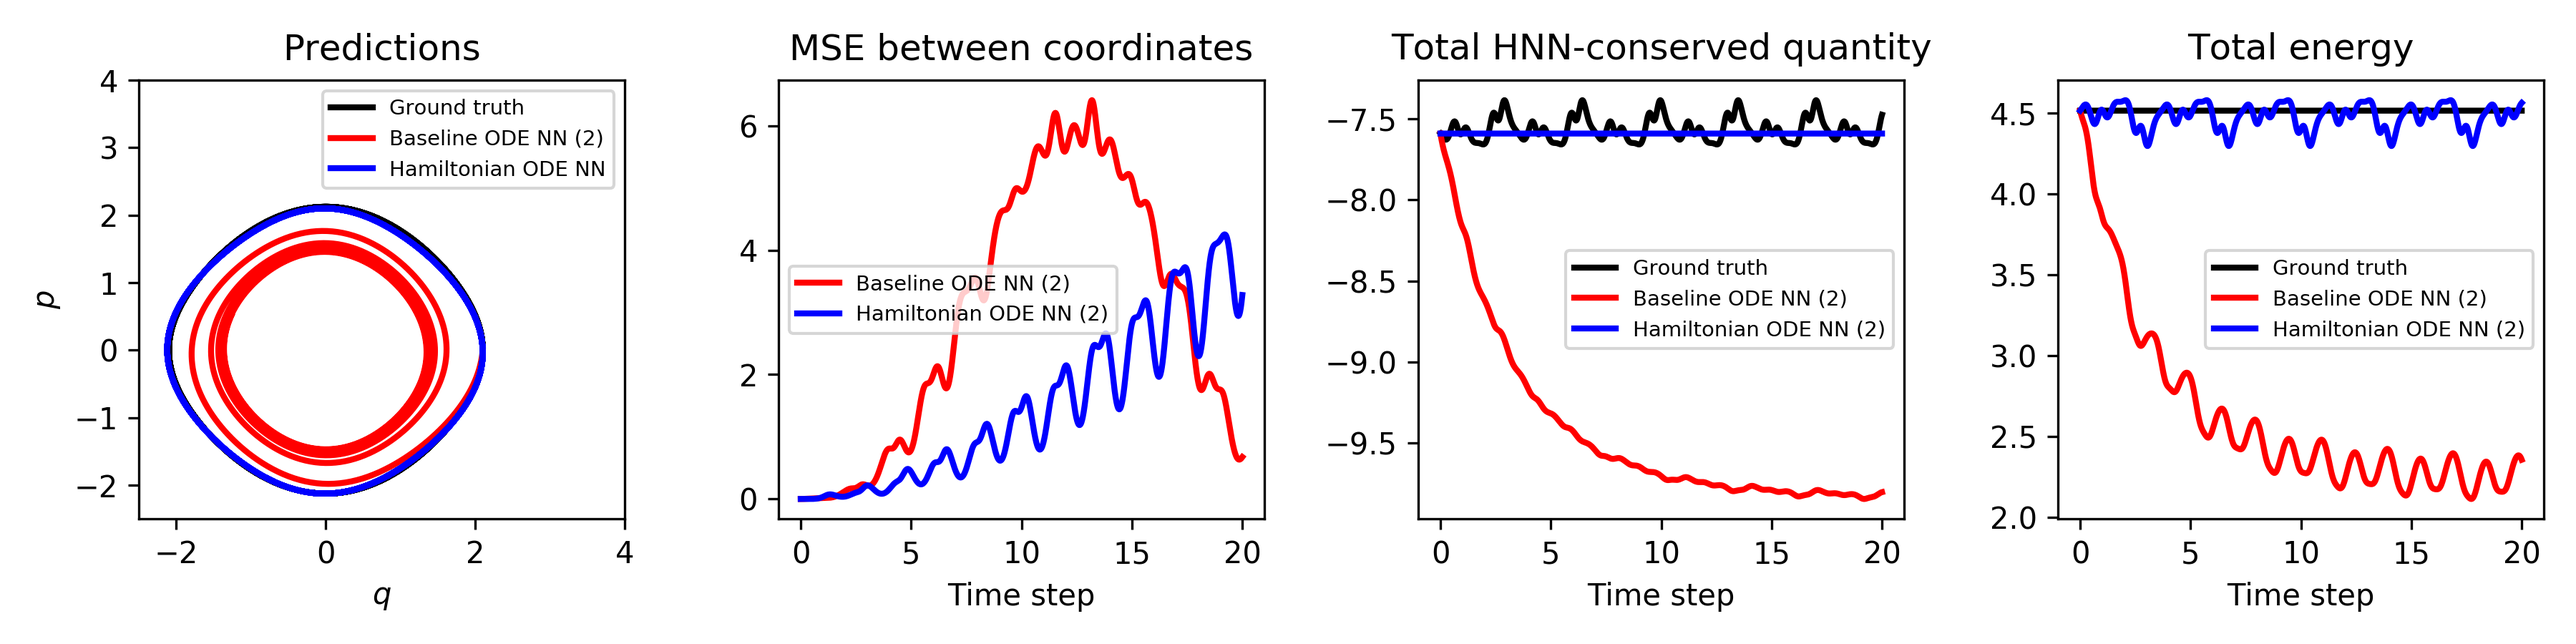
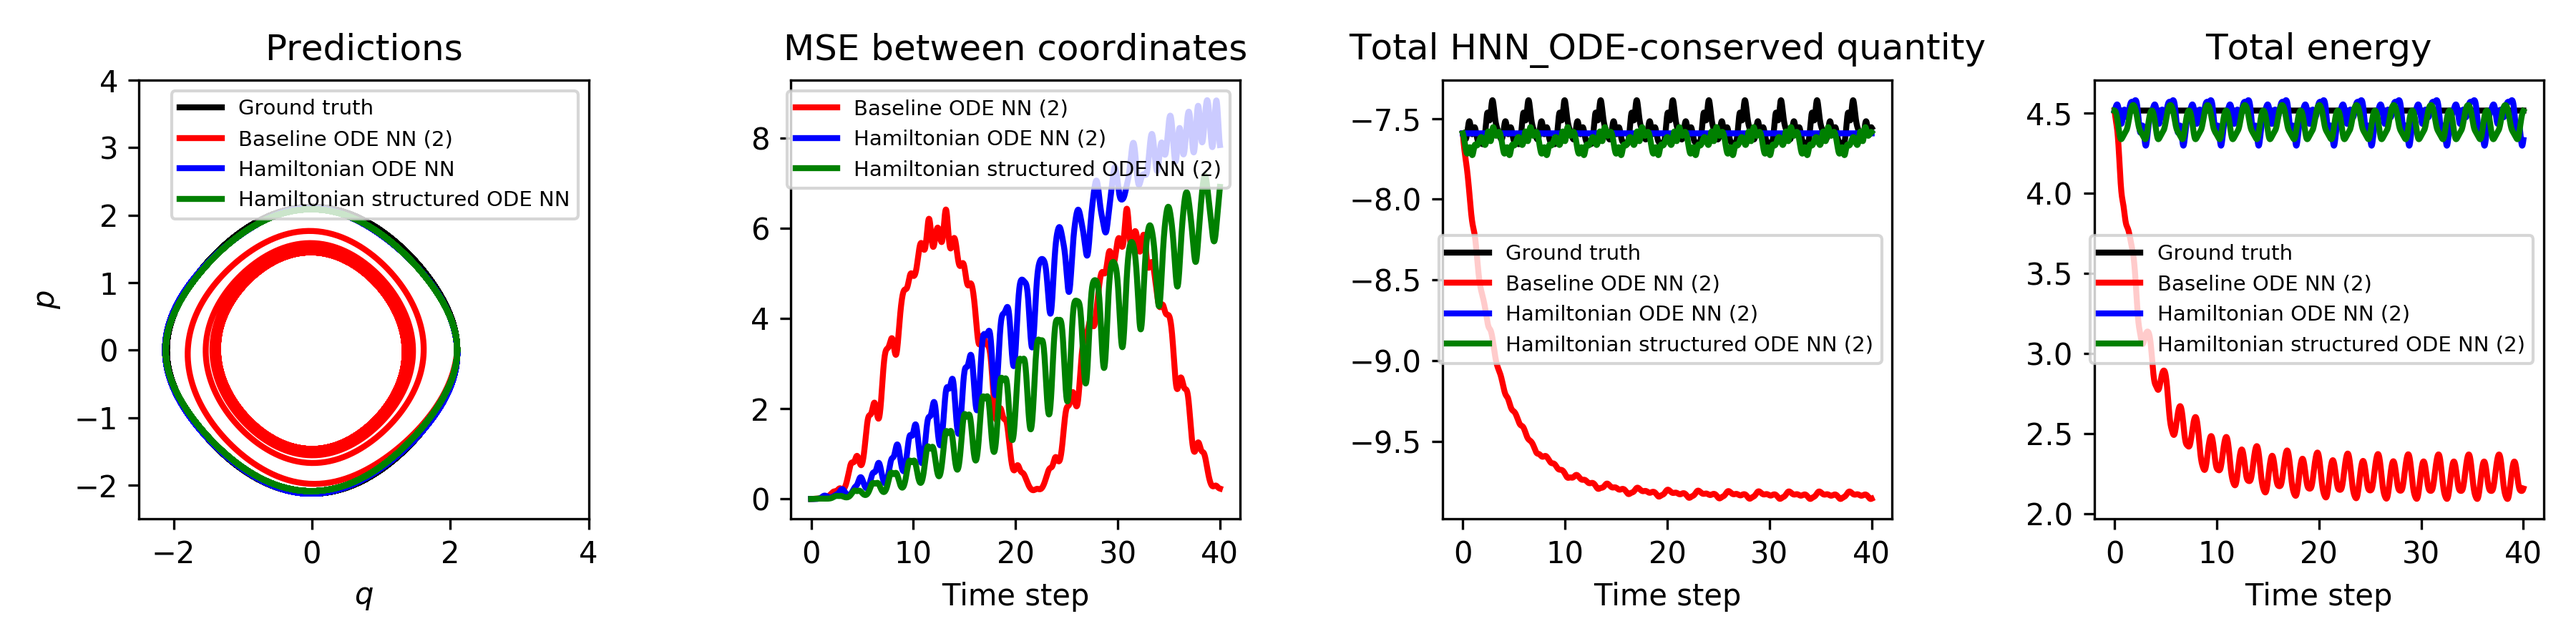
adding mass structure to the model

diff --git a/analyze-pend.py b/analyze-pend.py
@@ -12,7 +12,7 @@ sys.path.append(EXPERIMENT_DIR)
 
 from data import get_dataset, get_field, get_trajectory, dynamics_fn, hamiltonian_fn, arrange_data
 from nn_models import MLP
-from hnn import HNN
+from hnn import HNN, HNN_structure
 from utils import L2_loss, from_pickle
 
 # #%%
@@ -89,14 +89,20 @@ plt.tight_layout() ; plt.show()
 
 #%%
 device = torch.device('cuda:' + str(args.gpu) if torch.cuda.is_available() else 'cpu')
-def get_model(args, baseline, num_points):
-    output_dim = args.input_dim if baseline else 1
-    nn_model = MLP(args.input_dim, args.hidden_dim, output_dim, args.nonlinearity).to(device)
-    model = HNN(args.input_dim, differentiale_model=nn_model, 
-        device=device, baseline=baseline).to(device)
+def get_model(args, baseline, structure, num_points):
+    if structure == False:
+        output_dim = args.input_dim if baseline else 1
+        nn_model = MLP(args.input_dim, args.hidden_dim, output_dim, args.nonlinearity).to(device)
+        model = HNN(args.input_dim, differentiale_model=nn_model, 
+                device=device, baseline=baseline).to(device)
+    else:
+        L_net = MLP(input_dim=1, hidden_dim=141, output_dim=1, nonlinearity=args.nonlinearity).to(device)
+        V_net = MLP(input_dim=1, hidden_dim=141, output_dim=1, nonlinearity=args.nonlinearity).to(device)
+        model = HNN_structure(args.input_dim, L_net, V_net, device=device)
     
     model_name = 'baseline_ode' if baseline else 'hnn_ode'
-    path = '{}pend-{}-p{}.tar'.format(args.save_dir, model_name, num_points)
+    struct = '-struct' if structure else ''
+    path = '{}pend-{}{}-p{}.tar'.format(args.save_dir, model_name, struct, num_points)
     model.load_state_dict(torch.load(path, map_location=device))
     return model
 
@@ -132,8 +138,9 @@ def integrate_model(model, t_span, y0, **kwargs):
 # ## Run analysis
 
 #%%
-base_ode_model = get_model(args, baseline=True, num_points=args.num_points)
-hnn_ode_model = get_model(args, baseline=False, num_points=args.num_points)
+base_ode_model = get_model(args, baseline=True, structure=False, num_points=args.num_points)
+hnn_ode_model = get_model(args, baseline=False, structure=False, num_points=args.num_points)
+hnn_ode_struct_model = get_model(args, baseline=False, structure=True, num_points=args.num_points)
 
 # get their vector fields
 R = 2.6
@@ -141,6 +148,7 @@ field = get_field(xmin=-R, xmax=R, ymin=-R, ymax=R, gridsize=args.gridsize)
 # data = get_dataset(radius=2.0)
 base_field = get_vector_field(base_ode_model, xmin=-R, xmax=R, ymin=-R, ymax=R, gridsize=args.gridsize)
 hnn_field = get_vector_field(hnn_ode_model, xmin=-R, xmax=R, ymin=-R, ymax=R, gridsize=args.gridsize)
+hnn_struct_field = get_vector_field(hnn_ode_struct_model, xmin=-R, xmax=R, ymin=-R, ymax=R, gridsize=args.gridsize)
 
 # integrate along those fields starting from point (1,0)
 t_span = [0,28]
@@ -155,20 +163,21 @@ y0 = np.asarray([2.1, 0])
 kwargs = {'t_eval': np.linspace(t_span[0], t_span[1], 1000), 'rtol': 1e-12}
 base_ivp = integrate_model(base_ode_model, t_span, y0, **kwargs)
 hnn_ivp = integrate_model(hnn_ode_model, t_span, y0, **kwargs)
+hnn_struct_ivp = integrate_model(hnn_ode_struct_model, t_span, y0, **kwargs)
 
 
 #%%
 ###### PLOT ######
-fig = plt.figure(figsize=(11.3, 3.2), facecolor='white', dpi=DPI)
+fig = plt.figure(figsize=(16, 3.2), facecolor='white', dpi=DPI)
 # plot physical system
-fig.add_subplot(1, 4, 1, frameon=True) 
+fig.add_subplot(1, 5, 1, frameon=True) 
 plt.xticks([]) ;  plt.yticks([])
 schema = mpimg.imread(EXPERIMENT_DIR + '/pendulum.png')
 plt.imshow(schema)
 plt.title("Pendulum system", pad=10)
 
 # plot dynamics
-fig.add_subplot(1, 4, 2, frameon=True)
+fig.add_subplot(1, 5, 2, frameon=True)
 x, y, dx, dy, t = get_trajectory(t_span=[0,4], radius=2.1, y0=y0)
 N = len(x)
 point_colors = [(i/N, 0, 1-i/N) for i in range(N)]
@@ -181,7 +190,7 @@ plt.ylabel("$p$", rotation=0, fontsize=14)
 plt.title("Data", pad=10)
 
 # plot baseline
-fig.add_subplot(1, 4, 3, frameon=True)
+fig.add_subplot(1, 5, 3, frameon=True)
 plt.quiver(field['x'][:,0], field['x'][:,1], base_field[:,0], base_field[:,1],
         cmap='gray_r', scale=ARROW_SCALE, width=ARROW_WIDTH, color=(.5,.5,.5))
 
@@ -194,7 +203,7 @@ plt.ylabel("$p$", rotation=0, fontsize=14)
 plt.title("Baseline ODE NN ({})".format(args.num_points), pad=10)
 
 # plot HNN
-fig.add_subplot(1, 4, 4, frameon=True)
+fig.add_subplot(1, 5, 4, frameon=True)
 plt.quiver(field['x'][:,0], field['x'][:,1], hnn_field[:,0], hnn_field[:,1],
         cmap='gray_r', scale=ARROW_SCALE, width=ARROW_WIDTH, color=(.5,.5,.5))
 
@@ -205,6 +214,19 @@ for i, l in enumerate(np.split(hnn_ivp['y'].T, LINE_SEGMENTS)):
 plt.xlabel("$q$", fontsize=14)
 plt.ylabel("$p$", rotation=0, fontsize=14)
 plt.title("Hamiltonian ODE NN ({})".format(args.num_points), pad=10)
+
+# plot HNN structure
+fig.add_subplot(1, 5, 5, frameon=True)
+plt.quiver(field['x'][:,0], field['x'][:,1], hnn_struct_field[:,0], hnn_struct_field[:,1],
+        cmap='gray_r', scale=ARROW_SCALE, width=ARROW_WIDTH, color=(.5,.5,.5))
+
+for i, l in enumerate(np.split(hnn_struct_ivp['y'].T, LINE_SEGMENTS)):
+    color = (float(i)/LINE_SEGMENTS, 0, 1-float(i)/LINE_SEGMENTS)
+    plt.plot(l[:,0],l[:,1],color=color, linewidth=LINE_WIDTH)
+
+plt.xlabel("$q$", fontsize=14)
+plt.ylabel("$p$", rotation=0, fontsize=14)
+plt.title("Hamiltonian structured ODE NN ({})".format(args.num_points), pad=10)
 
 plt.tight_layout() ; plt.show()
 fig.savefig('{}/pend-p{}.{}'.format(args.fig_dir, args.num_points, FORMAT))
@@ -231,8 +253,13 @@ def integrate_models(x0=np.asarray([1, 0]), t_span=[0,5], t_eval=None):
     hnn_path = integrate_model(hnn_ode_model, t_span, x0, **kwargs)
     hnn_x = hnn_path['y'].T
     _tmp = torch.tensor( true_x, requires_grad=True, dtype=torch.float32)
-    
-    return true_x, base_x, hnn_x
+
+    # integrate along HNN vector field
+    hnn_struct_path = integrate_model(hnn_ode_struct_model, t_span, x0, **kwargs)
+    hnn_struct_x = hnn_struct_path['y'].T
+    _tmp = torch.tensor( true_x, requires_grad=True, dtype=torch.float32)
+
+    return true_x, base_x, hnn_x, hnn_struct_x
 
 def vector_field_loss(x, dx_hat):
     dx = circular_vector_field(t=None, x=x)
@@ -248,9 +275,9 @@ def energy_loss(true_x, integrated_x):
 x0 = np.asarray([2.1, 0])
 
 # integration
-t_span=[0,20]
+t_span=[0,40]
 t_eval = np.linspace(t_span[0], t_span[1], 2000)
-true_x, base_x, hnn_x = integrate_models(x0=x0, t_span=t_span, t_eval=t_eval)
+true_x, base_x, hnn_x, hnn_struct_x = integrate_models(x0=x0, t_span=t_span, t_eval=t_eval)
 
 # plotting
 tpad = 7
@@ -261,6 +288,7 @@ plt.title("Predictions", pad=tpad) ; plt.xlabel('$q$') ; plt.ylabel('$p$')
 plt.plot(true_x[:,0], true_x[:,1], 'k-', label='Ground truth', linewidth=2)
 plt.plot(base_x[:,0], base_x[:,1], 'r-', label='Baseline ODE NN ({})'.format(args.num_points), linewidth=2)
 plt.plot(hnn_x[:,0], hnn_x[:,1], 'b-', label='Hamiltonian ODE NN', linewidth=2)
+plt.plot(hnn_struct_x[:,0], hnn_struct_x[:,1], 'g-', label='Hamiltonian structured ODE NN', linewidth=2)
 plt.xlim(-2.5,4) ; plt.ylim(-2.5,4)
 plt.legend(fontsize=7)
 
@@ -268,17 +296,20 @@ plt.subplot(1,4,2)
 plt.title("MSE between coordinates", pad=tpad) ; plt.xlabel('Time step')
 plt.plot(t_eval, ((true_x-base_x)**2).mean(-1), 'r-', label='Baseline ODE NN ({})'.format(args.num_points), linewidth=2)
 plt.plot(t_eval, ((true_x-hnn_x)**2).mean(-1), 'b-', label='Hamiltonian ODE NN ({})'.format(args.num_points), linewidth=2)
+plt.plot(t_eval, ((true_x-hnn_struct_x)**2).mean(-1), 'g-', label='Hamiltonian structured ODE NN ({})'.format(args.num_points), linewidth=2)
 plt.legend(fontsize=7)
 
 plt.subplot(1,4,3)
-plt.title("Total HNN-conserved quantity", pad=tpad)
+plt.title("Total HNN_ODE-conserved quantity", pad=tpad)
 plt.xlabel('Time step')
 true_hq = hnn_ode_model(torch.Tensor(true_x).to(device)).detach().cpu().numpy().squeeze()
 base_hq = hnn_ode_model(torch.Tensor(base_x).to(device)).detach().cpu().numpy().squeeze()
 hnn_hq = hnn_ode_model(torch.Tensor(hnn_x).to(device)).detach().cpu().numpy().squeeze()
+hnn_struct_hq = hnn_ode_model(torch.Tensor(hnn_struct_x).to(device)).detach().cpu().numpy().squeeze()
 plt.plot(t_eval, true_hq, 'k-', label='Ground truth', linewidth=2)
 plt.plot(t_eval, base_hq, 'r-', label='Baseline ODE NN ({})'.format(args.num_points), linewidth=2)
 plt.plot(t_eval, hnn_hq, 'b-', label='Hamiltonian ODE NN ({})'.format(args.num_points), linewidth=2)
+plt.plot(t_eval, hnn_struct_hq, 'g-', label='Hamiltonian structured ODE NN ({})'.format(args.num_points), linewidth=2)
 plt.legend(fontsize=7)
 
 plt.subplot(1,4,4)
@@ -287,9 +318,11 @@ plt.xlabel('Time step')
 true_e = np.stack([hamiltonian_fn(c) for c in true_x])
 base_e = np.stack([hamiltonian_fn(c) for c in base_x])
 hnn_e = np.stack([hamiltonian_fn(c) for c in hnn_x])
+hnn_struct_e = np.stack([hamiltonian_fn(c) for c in hnn_struct_x])
 plt.plot(t_eval, true_e, 'k-', label='Ground truth', linewidth=2)
 plt.plot(t_eval, base_e, 'r-', label='Baseline ODE NN ({})'.format(args.num_points), linewidth=2)
 plt.plot(t_eval, hnn_e, 'b-', label='Hamiltonian ODE NN ({})'.format(args.num_points), linewidth=2)
+plt.plot(t_eval, hnn_struct_e, 'g-', label='Hamiltonian structured ODE NN ({})'.format(args.num_points), linewidth=2)
 plt.legend(fontsize=7)
 
 plt.tight_layout() ; plt.show()

diff --git a/experiment-pend/train.py b/experiment-pend/train.py
@@ -10,7 +10,7 @@ PARENT_DIR = os.path.dirname(os.path.dirname(os.path.abspath(__file__)))
 sys.path.append(PARENT_DIR)
 
 from nn_models import MLP
-from hnn import HNN
+from hnn import HNN, HNN_structure
 from data import get_dataset, arrange_data
 from utils import L2_loss, to_pickle
 
@@ -31,6 +31,7 @@ def get_args():
     parser.add_argument('--save_dir', default=THIS_DIR, type=str, help='where to save the trained model')
     parser.add_argument('--gpu', type=int, default=0)
     parser.add_argument('--num_points', type=int, default=2, help='number of evaluation points by the ODE solver, including the initial point')
+    parser.add_argument('--structure', dest='structure', action='store_true', help='using a structured Hamiltonian')
     parser.set_defaults(feature=True)
     return parser.parse_args()
 
@@ -50,10 +51,20 @@ def train(args):
     if args.verbose:
         print("Training baseline ODE model with num of points = {}:".format(args.num_points) if args.baseline 
             else "Training HNN ODE model with num of points = {}:".format(args.num_points))
+        if args.structure:
+            print("using the structured Hamiltonian \n")
 
-    output_dim = args.input_dim if args.baseline else 1
-    nn_model = MLP(args.input_dim, args.hidden_dim, output_dim, args.nonlinearity).to(device)
-    model = HNN(args.input_dim, differentiale_model=nn_model, device=device, baseline=args.baseline).to(device)
+    if args.structure == False:
+        output_dim = args.input_dim if args.baseline else 1
+        nn_model = MLP(args.input_dim, args.hidden_dim, output_dim, args.nonlinearity).to(device)
+        model = HNN(args.input_dim, differentiale_model=nn_model, device=device, baseline=args.baseline).to(device)
+    elif args.structure and args.baseline == False:
+        L_net = MLP(input_dim=1, hidden_dim=141, output_dim=1, nonlinearity=args.nonlinearity).to(device)
+        V_net = MLP(input_dim=1, hidden_dim=141, output_dim=1, nonlinearity=args.nonlinearity).to(device)
+        model = HNN_structure(args.input_dim, L_net, V_net, device=device)
+    else:
+        raise RuntimeError('argument *baseline* and *structure* cannot both be true')
+    
     optim = torch.optim.Adam(model.parameters(), args.learn_rate, weight_decay=1e-4)
 
     # arrange data
@@ -79,7 +90,7 @@ def train(args):
     for step in range(args.total_steps+1):
         # train step
         t = time.time()
-        train_x_hat = odeint(model.time_derivative, train_x[0, :, :], t_eval, method='dopri5')
+        train_x_hat = odeint(model.time_derivative, train_x[0, :, :], t_eval, method='rk4')
         forward_time = time.time() - t
         loss = L2_loss(train_x, train_x_hat)
 
@@ -88,7 +99,7 @@ def train(args):
         backward_time = time.time() - t
         
         # run test data
-        test_x_hat = odeint(model.time_derivative, test_x[0, :, :], t_eval, method='dopri5')
+        test_x_hat = odeint(model.time_derivative, test_x[0, :, :], t_eval, method='rk4')
         test_loss = L2_loss(test_x, test_x_hat)
 
         # logging
@@ -122,8 +133,9 @@ if __name__ == "__main__":
     # save 
     os.makedirs(args.save_dir) if not os.path.exists(args.save_dir) else None
     label = '-baseline_ode' if args.baseline else '-hnn_ode'
-    path = '{}/{}{}-p{}.tar'.format(args.save_dir, args.name, label, args.num_points)
+    struct = '-struct' if args.structure else ''
+    path = '{}/{}{}{}-p{}.tar'.format(args.save_dir, args.name, label, struct, args.num_points)
     torch.save(model.state_dict(), path)
 
-    path = '{}/{}{}-p{}-stats.pkl'.format(args.save_dir, args.name, label, args.num_points)
+    path = '{}/{}{}{}-p{}-stats.pkl'.format(args.save_dir, args.name, label, struct, args.num_points)
     to_pickle(stats, path)

diff --git a/hnn.py b/hnn.py
@@ -55,3 +55,50 @@ class HNN(torch.nn.Module):
                 for j in range(i+1, n):
                     M[i,j] *= -1
         return M.to(self.device)
+
+
+class HNN_structure(torch.nn.Module):
+    def __init__(self, input_dim, L_net, V_net, device,
+                    assume_canonical_coords=True):
+        super(HNN_structure, self).__init__()
+        self.L_net = L_net
+        self.V_net = V_net
+        self.device = device
+        self.assume_canonical_coords = assume_canonical_coords
+        self.M = self.permutation_tensor(input_dim)
+        self.nfe = 0
+
+    def forward(self, x):
+        q, p = torch.chunk(x, 2, dim=1)
+        L = self.L_net(q)
+        V_q = self.V_net(q)
+        M_q = L * L 
+
+        H = p * p * M_q /2 + V_q
+        return H
+        # return p * p/ (2*self.L_net(q)*self.L_net(q)) + self.V_net(q)
+
+    def time_derivative(self, t, x):
+        self.nfe += 1
+        H = self.forward(x)
+        dH = torch.autograd.grad(H.sum(), x, create_graph=True)[0]
+        vector_field = torch.matmul(dH, self.M.t())
+        return vector_field
+
+
+    def permutation_tensor(self, n):
+        M = None
+        if self.assume_canonical_coords:
+            M = torch.eye(n)
+            M = torch.cat([M[n//2:], -M[:n//2]])
+        else:
+            '''Constructs the Levi-Civita permutation tensor'''
+            M = torch.ones(n,n) # matrix of ones
+            M *= 1 - torch.eye(n) # clear diagonals
+            M[::2] *= -1 # pattern of signs
+            M[:,::2] *= -1
+    
+            for i in range(n): # make asymmetric
+                for j in range(i+1, n):
+                    M[i,j] *= -1
+        return M.to(self.device)

diff --git a/notes.md b/notes.md
@@ -39,3 +39,7 @@ $\dot{p} = -\frac{\partial H}{\partial q}$
 
 ![image](figures/pend-p5.png)
 ![image](figures/pend-p5-integration.png)
+
+## Try to add structure to the ODENet
+
+It takes some trial and error to figure out how to implement the mass matrix structure into the network. 
